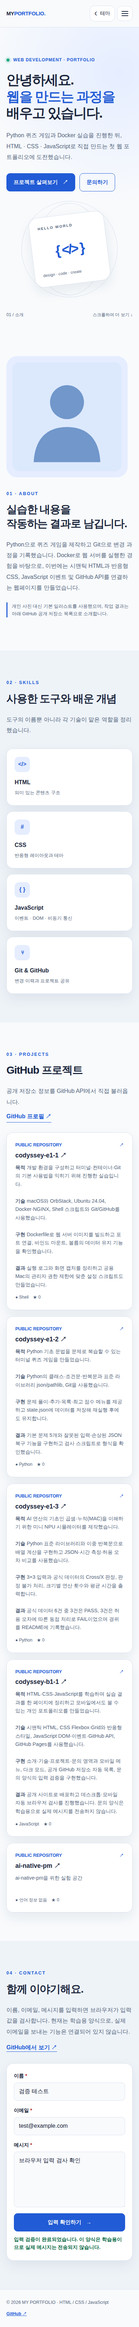
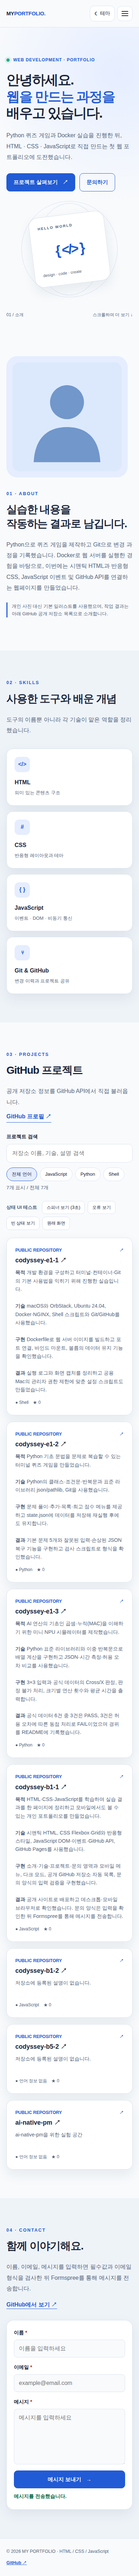
docs: update deployed website screenshots and QA report

Changed region(s): [[0.0308, 0.0, 0.9538, 1.0], [0.7692, 0.8438, 0.8, 0.875]]

diff --git a/docs/screenshots/LIVE_QA.md b/docs/screenshots/LIVE_QA.md
@@ -1,19 +1,20 @@
 # 배포 사이트 브라우저 검사
 
-검사 시각: 2026-09-23T20:47:46.011Z
+검사 시각: 2026-11-11T13:41:28.072Z
 대상: https://usernameffas.github.io/codyssey-b1-1/
 검사 환경: GitHub Actions의 자동 Chromium 브라우저
 스크린샷 출처: 공개된 GitHub Pages 주소에 직접 접속해 촬영
 
 - 데스크톱 1280px: HTTP 200, desktop.png 촬영, 가로 넘침=false.
-- 프로젝트 영역: 공개 GitHub 저장소 링크 5개, 표시 문구 일부: "PUBLIC REPOSITORY ↗ codyssey-e1-1 ↗ 목적 개발 환경을 구성하고 터미널·컨테이너·Git의 기본 사용법을 익히기 위해 진행한 실습입니다. 기술 macOS와 OrbStack, Ubuntu 24.04, Docker·NGINX, Shell 스크립트와 Git/GitHub를 사용했습니다. 구현 Dockerfile로 웹 서버 이미지를 빌드하고 포트 연결, 바인드 마운트, 볼륨의 데이터 유지 기능을 확인했습니다. 결과 실행 로그와 ".
+- 프로젝트 영역: 공개 GitHub 저장소 링크 7개, 표시 문구 일부: "PUBLIC REPOSITORY ↗ codyssey-e1-1 ↗ 목적 개발 환경을 구성하고 터미널·컨테이너·Git의 기본 사용법을 익히기 위해 진행한 실습입니다. 기술 macOS와 OrbStack, Ubuntu 24.04, Docker·NGINX, Shell 스크립트와 Git/GitHub를 사용했습니다. 구현 Dockerfile로 웹 서버 이미지를 빌드하고 포트 연결, 바인드 마운트, 볼륨의 데이터 유지 기능을 확인했습니다. 결과 실행 로그와 ".
 - codyssey-e1-1: 프로젝트 소개 표시 확인 (형식: 학습용 상세 소개).
 - codyssey-e1-2: 프로젝트 소개 표시 확인 (형식: 학습용 상세 소개).
 - codyssey-e1-3: 프로젝트 소개 표시 확인 (형식: 학습용 상세 소개).
 - codyssey-b1-1: 프로젝트 소개 표시 확인 (형식: 학습용 상세 소개).
+- 언어 버튼: JavaScript 필터 및 전체 목록 복귀 확인.
 - 모바일 메뉴: 열림=true, 메뉴 이동 뒤 닫힘=false.
 - 이메일 형식 오류 안내 표시=true.
-- 정상 입력 검증 완료 표시=true.
+- 정상 입력 후 Formspree 요청과 성공 문구 표시 확인(모의 응답).
 - 맨 위로 이동: 버튼 표시=true, 화면 상단 도착=true.
 - 모바일 390px: mobile.png 촬영, 가로 넘침=false.
 - 새로고침 후 다크 모드: data-theme=dark, localStorage=dark.
